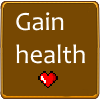
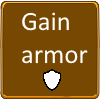
small game balance changes

Changed region(s): [[0.15, 0.42, 0.9, 0.66], [0.15, 0.12, 0.69, 0.33], [0.36, 0.69, 0.63, 0.93]]

diff --git a/frontend/src/Components/Game/GameScene.js b/frontend/src/Components/Game/GameScene.js
@@ -133,8 +133,8 @@ class GameScene extends Phaser.Scene {
       level: 0,
       xp: 0,
       numberOfBullets: 0,
-      pointsOfRegeneration: 0,
       speed: 100,
+      armor: 0
     };
     this.zombiesInLastWave = 0;
 
@@ -213,14 +213,14 @@ class GameScene extends Phaser.Scene {
     );
 
     Phaser.Actions.Call(this.bossSpawner.group.getChildren(), (boss) =>
-      this.physics.moveToObject(boss, this.player, 60),
+      this.physics.moveToObject(boss, this.player, 80),
     );
 
 
 
 
     const zombieArray = this.zombieSpawner.group.getChildren();
-    for (let i = 0; i < zombieArray.length; i+=1) {
+    for (let i = 0; i < zombieArray.length; i += 1) {
 
       if (zombieArray[i].body.velocity.x < 0) {
         zombieArray[i].anims.play('zombie-walk-left', true);
@@ -233,8 +233,8 @@ class GameScene extends Phaser.Scene {
       } else if (zombieArray[i].body.velocity.x === 0 && zombieArray[i].body.velocity.y === 0) {
         zombieArray[i].anims.play('zombie-standing');
       }
-      
-    }   
+
+    }
   }
 
   createUI() {
@@ -280,12 +280,6 @@ class GameScene extends Phaser.Scene {
   }
 
   createEvents() {
-    const healthRegenEvent = new Phaser.Time.TimerEvent({
-      delay: 1000,
-      loop: true,
-      callback: this.regenHealth,
-      callbackScope: this,
-    });
     const zombieSpawnEvent = new Phaser.Time.TimerEvent({
       delay: 7500,
       loop: true,
@@ -317,7 +311,6 @@ class GameScene extends Phaser.Scene {
       callbackScope: this,
     });
 
-    this.time.addEvent(healthRegenEvent);
     this.time.addEvent(zombieSpawnEvent);
     this.time.addEvent(bossSpawnEvent);
     this.time.addEvent(fireBulletEvent);
@@ -326,15 +319,18 @@ class GameScene extends Phaser.Scene {
   }
 
   spawnZombies() {
-    this.zombiesInLastWave += 1;
-    for (let i = 0; i < this.zombiesInLastWave; i += 1) {
+    this.zombiesInLastWave += 0.75;
+    for (let i = 0; i < Math.floor(this.zombiesInLastWave); i += 1) {
       this.zombieSpawner.spawn(this.player.x, this.player.y);
     }
   }
 
   spawnBoss() {
-    const boss = this.bossSpawner.spawn(this.player.x, this.player.y);
-    boss.HP = 5;
+    for (let i = 0; i < Math.floor(this.playerStats.level / 3); i += 1) {
+      const boss = this.bossSpawner.spawn(this.player.x, this.player.y);
+      boss.HP = 5;
+    }
+
   }
 
   spawnBonus() {
@@ -538,18 +534,11 @@ class GameScene extends Phaser.Scene {
   }
 
   gainXP() {
-    this.XPbar.x += 60 / 1.5 ** this.playerStats.level;
-    this.playerStats.xp += 60 / 1.1 ** this.playerStats.level;
+    this.XPbar.x += 60 / (1.5 ** this.playerStats.level);
+    this.playerStats.xp += 60 / (1.5 ** this.playerStats.level);
     if (this.playerStats.xp >= 240) {
       this.playerStats.xp -= 240;
       this.levelUp();
-    }
-  }
-
-  regenHealth() {
-    this.playerStats.health += this.playerStats.pointsOfRegeneration;
-    if (this.playerStats.health > 100) {
-      this.playerStats.health = 100;
     }
   }
 
@@ -564,24 +553,30 @@ class GameScene extends Phaser.Scene {
     // Display level up options
     this.levelUpText.setVisible(true);
     // First option : gain 1 fireball
-    this.option1Image.setVisible(true);
-    this.option1Image.setInteractive();
-    this.option1Image.on('pointerdown', () => {
-      this.playerStats.numberOfBullets += 1;
-      this.resumeGame();
-    });
-    // Second option : increase health regeneration
-    this.option2Image.setVisible(true);
-    this.option2Image.setInteractive();
-    this.option2Image.on('pointerdown', () => {
-      this.playerStats.pointsOfRegeneration += 1;
-      this.resumeGame();
-    });
-    // Third option : increase speed by 10
+    if (this.playerStats.numberOfBullets < 10) {
+      this.option1Image.setVisible(true);
+      this.option1Image.setInteractive();
+      this.option1Image.on('pointerdown', () => {
+        this.playerStats.numberOfBullets += 1;
+        this.resumeGame();
+      });
+    }
+
+    // Second option : increase armor protection
+    if (this.playerStats.armor < 10) {
+      this.option2Image.setVisible(true);
+      this.option2Image.setInteractive();
+      this.option2Image.on('pointerdown', () => {
+        this.playerStats.armor += 1;
+        this.resumeGame();
+      });
+    }
+
+    // Third option : increase speed by 5
     this.option3Image.setVisible(true);
     this.option3Image.setInteractive();
     this.option3Image.on('pointerdown', () => {
-      this.playerStats.speed += 10;
+      this.playerStats.speed += 5;
       this.resumeGame();
     });
   }
@@ -624,7 +619,7 @@ class GameScene extends Phaser.Scene {
     if (this.directionLastFlameAttack === 'left') {
       Phaser.Actions.Call(this.zombieSpawner.group.getChildren(), (zombie) =>
         this.player.x - zombie.x > -200 && this.player.x - zombie.x < 0 && Math.abs(zombie.y - this.player.y) < 50
-          ? zombie.destroy(this.gemSpawner.spawn(zombie.x, zombie.y))
+          ? zombie.destroy(this.gemSpawner.spawn(zombie.x, zombie.y)) && this.scoreLabel.add(50)
           : null
       );
       flame.setX(flame.x + 20);
@@ -634,7 +629,7 @@ class GameScene extends Phaser.Scene {
     else {
       Phaser.Actions.Call(this.zombieSpawner.group.getChildren(), (zombie) =>
         this.player.x - zombie.x < 200 && this.player.x - zombie.x > 0 && Math.abs(zombie.y - this.player.y) < 50
-          ? zombie.destroy(this.gemSpawner.spawn(zombie.x, zombie.y))
+          ? zombie.destroy(this.gemSpawner.spawn(zombie.x, zombie.y)) && this.scoreLabel.add(50)
           : null
       );
       flame.setX(flame.x - 310);
@@ -655,7 +650,7 @@ class GameScene extends Phaser.Scene {
       this.damageSound.play();
     }
 
-    this.playerStats.health -= 1;
+    this.playerStats.health -= (1 - (this.playerStats.armor / 20));
 
     if (this.playerStats.health <= 0) {
       this.gameOver();
